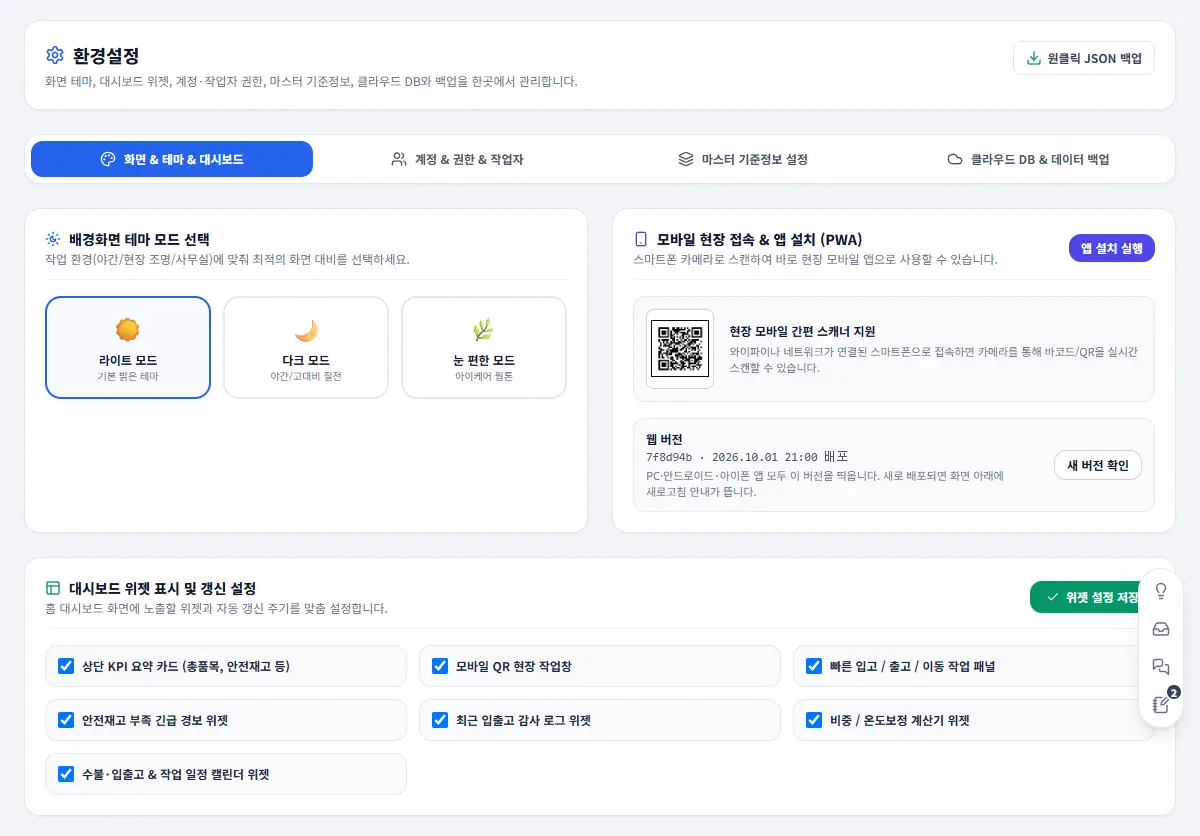
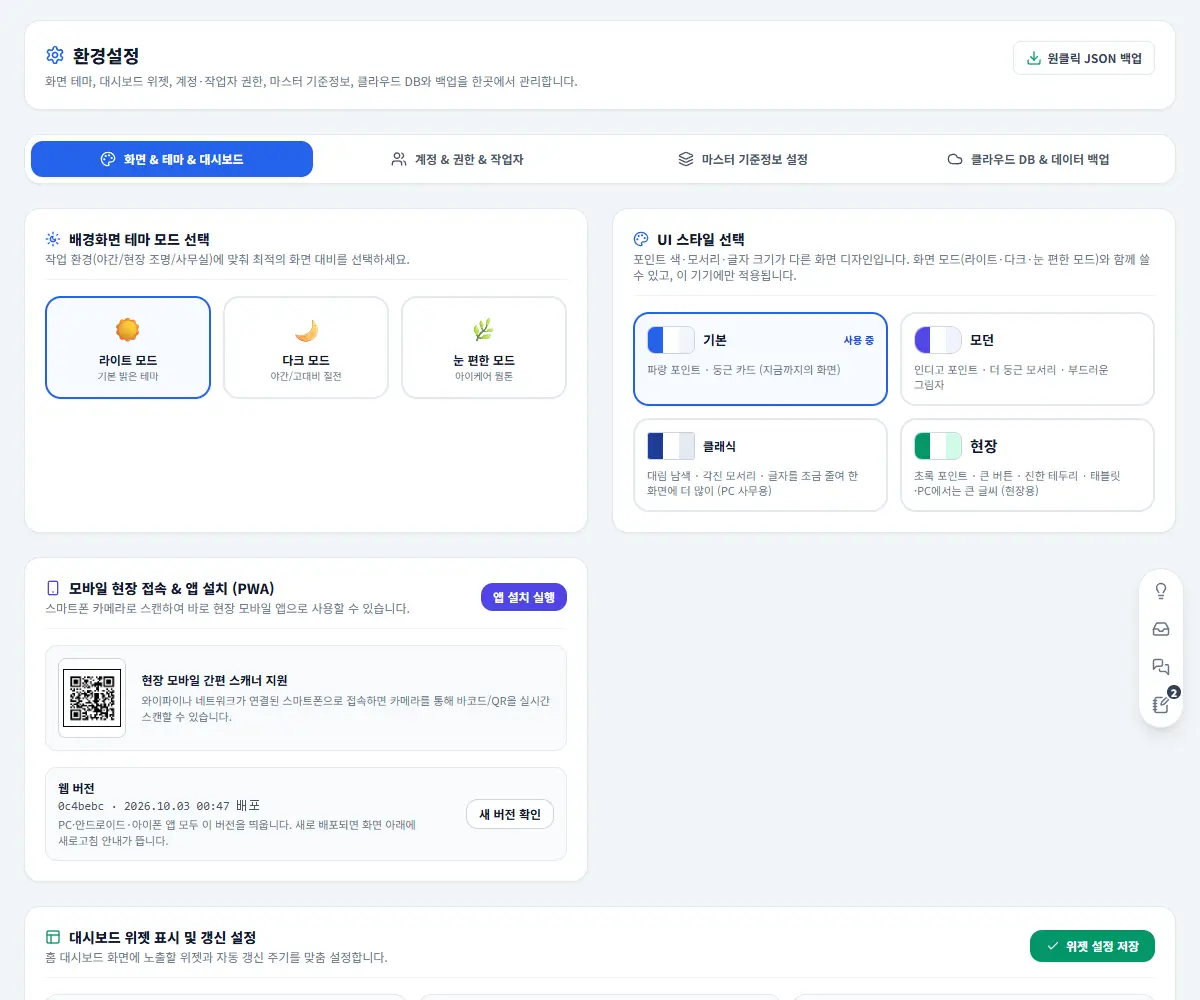
docs: 스캐너·전표 인식·적재 규격·모형·UI 스타일 매뉴얼과 작업 기록, 예시 데이터 뽑기 스크립트

diff --git a/src/data/manualContent.js b/src/data/manualContent.js
@@ -1271,7 +1271,8 @@ const USER_MANUAL = {
                     title: '한 품목씩 처리',
                     image: 'scan-item.webp', caption: '품목을 스캔하면 거점별 재고와 작업 창이 나옵니다',
                     steps: [
-                        '`카메라 스캐너 켜기`를 누르고 품목 라벨의 QR·바코드를 비춥니다. (PC는 `품목코드 또는 품목명 검색`에 코드·이름 일부를 입력하고 `조회`)',
+                        '`카메라 스캐너 켜기`를 누르고 품목 라벨의 QR·바코드를 **네모 안에** 비춥니다(처음 한 번 카메라 권한 허용). 읽히면 네모가 초록으로 바뀌고 소리·진동이 납니다. (PC는 `품목코드 또는 품목명 검색`에 코드·이름 일부를 입력하고 `조회`)',
+                        '카메라 화면 오른쪽 위 단추: **손전등**(어두운 창고) · **1× → 2× → 3× 확대**(작은 라벨을 떨어져서 읽을 때) · **카메라 바꾸기**(카메라가 여러 개인 기기 — 고른 카메라를 기억합니다) · **사진에서 읽기**(카메라가 켜지지 않는 브라우저에서 QR 사진을 골라 읽기). 손전등·확대는 그 기능이 있는 카메라에서만 보입니다. 같은 카메라 화면을 재고실사·통합 검색·LOT 추적·제품생산/입고 검색 등록·작업지시서 스캔에서도 씁니다.',
                         '오른쪽에 품목 정보와 **거점별 보관 현황**이 나옵니다.',
                         '작업을 고릅니다: `입고 (+)`, `출고 (-)`, `생산투입 (-)`, `거점이동 (->)`.',
                         '`대상/출발 거점`과 `수량`을 넣습니다. 거점이동은 `도착 위치`(창고까지)도 고릅니다.',
@@ -1279,6 +1280,7 @@ const USER_MANUAL = {
                     ],
                     cautions: [
                         '출고·생산투입·이동은 **그 위치의 재고보다 많이 뺄 수 없습니다.** 재고가 건물(창고)별로 나뉘어 있으면 위치 QR로 정확한 창고를 먼저 지정하세요.',
+                        'QR이 잘 안 읽히면: 라벨이 네모 안에 들어오게 하고 **너무 가까이 대지 마세요**(초점이 안 맞으면 조금 떼고 `2×` 확대). 어두우면 손전등, 라벨이 구겨지거나 기름이 묻었으면 닦거나 다시 뽑습니다. 카메라 권한을 막았으면 주소창의 자물쇠 → 카메라를 허용으로 바꿉니다.',
                         '확정하면 재고·수불부·이력에 바로 기록됩니다. 잘못 처리했으면 반대 작업(예: 출고를 다시 입고)으로 바로잡고 사유를 남기세요.'
                     ]
                 },
@@ -1588,7 +1590,7 @@ const USER_MANUAL = {
                         '`카메라로 찍기` 또는 `이미지 파일 선택`으로 전표 사진을 올립니다 (끌어다 놓기도 됨). 기울었으면 `90° 회전`.',
                         '`글자 읽기`를 누릅니다. 처음에는 인식 프로그램을 받느라 조금 걸립니다. 책상·바닥이 넓게 찍힌 사진은 **종이(전표·영수증) 부분만 자동으로 잘라** 읽습니다. 잘못 잘렸으면 `종이만 자르기`를 끄세요.',
                         '오른쪽에서 `전표 종류`, 일자·거래처·전표 번호·창고·작업자를 확인합니다. 종류별 재고 처리: **입고·구매·카드사용**(카드로 산 물품) = 재고 늘림, **출고·사용·폐기** = 재고 줄임, **이동** = `출발 창고` → `도착 창고`로 옮김, **기타** = `재고` 칸에서 늘림/줄임을 고릅니다. 수불부 구분 칸에는 고른 종류 이름(구매·카드사용·폐기·기타 등)이 그대로 적힙니다.',
-                        '읽은 줄마다 품목(검색해서 고르기)·수량·단위를 확인하고, 맞는 줄만 체크합니다. 빠진 줄은 `+ 줄 추가`.',
+                        '읽은 줄마다 품목(검색해서 고르기)·수량·단위를 확인하고, 맞는 줄만 체크합니다. 빠진 줄은 `+ 줄 추가`. 표로 된 전표는 여러 방식으로 읽어 **줄마다 가장 잘 읽힌 것**을 고르고(2~4번 읽음, 10~30초), 머리줄의 `수량` 칸 아래 숫자를 찾으면 읽은 글자 줄 끝에 `[수량칸 240]`처럼 적어 그 값을 수량으로 씁니다 — 틀렸으면 표의 수량을 고치거나, `읽은 글자`에서 그 숫자를 고치고 `다시 분석`합니다.',
                         '원료·원액처럼 단위가 L이나 KG인 품목은 단위 칸에서 **L / KG**를 고를 수 있습니다. 품목 단위와 다르면 `비중` 칸이 나오고(원료수불부 최근 비중, 없으면 1) 환산 결과(`= 202.5 L`)를 보여 주며, 등록은 품목 단위로 환산해 넣습니다. 전표에 `160 kg`처럼 적혀 있으면 KG로 먼저 맞춰 둡니다.',
                         '**카드전표**(전표 종류 `카드사용`): 보라색 `카드 사용 정보` 칸에 **결제 금액·카드·사용 용도**를 넣습니다(글자 읽기를 하면 영수증을 여러 크기로 읽어 **사용처(맨 위 업체명)·합계 금액·카드사와 카드 끝 4자리·거래일시·승인번호**를 찾아 채워 줌, 약 10초. 고른 값은 보라색 `영수증에서 고른 값` 칸에 따로 보이고, 그 아래 `읽은 글자`는 여러 번 읽은 것 중 하나라 깨져 보일 수 있습니다. 영수증(감열지)은 흑백·대비 보정이 흐린 글자를 지우기도 해서 종류가 카드사용이면 `흑백·대비 보정`이 자동으로 꺼지고 `종이만 자르기`로 읽습니다. 카드·용도는 이 기기에서 쓴 것을 목록으로 보여 주고, 끝 4자리가 같은 카드가 있으면 그 이름으로 채움). 재고 품목이 있으면 아래 표에서 체크해 등록하고, 식대·주유처럼 재고와 관계없는 영수증은 `재고 없이 카드 사용만 기록`을 누릅니다. 영수증 사진은 **월·일자별로 정리해** 보관되고 전표관리의 월별 카드사용내역에 모입니다.',
                         '`체크한 줄 입고 등록`(또는 출고 등록)을 누릅니다. 등록하면 **전표관리**에 등록번호(SC-날짜-순번)로 기록이 남고 전표 사진도 함께 보관됩니다.',
@@ -1738,6 +1740,18 @@ const USER_MANUAL = {
                     tips: ['같은 거점(김포공장) 안 이동이라 수불부·업무일지에는 기록되지 않고 입출고 이력에만 남습니다.', '구획 QR 라벨을 여러 장 뽑을 때는 `구획 QR 라벨`(현장 QR 라벨 화면)에서 위치를 고릅니다.']
                 },
                 {
+                    title: '적재 규격 · 파렛트 수 자동 계산 · 추천 자리',
+                    steps: [
+                        '오른쪽 목록의 품목마다 **적재 규격** 단추가 있습니다(예: `드럼 2×2 × 1단 = 4개 · 파렛트당 800 L`). 그 품목이 파렛트에 어떤 포장으로 몇 개 실리는지이고, 3D의 파렛트가 **그 모양과 개수대로** 그려집니다 — 드럼은 원통 4개, 페일은 4×4로 3단, 박스는 가로×세로로 여러 단, IBC는 통 하나. 마지막 파렛트는 남은 수량만큼만 쌓여 보입니다.',
+                        '규격을 정하지 않은 품목은 **품명·규격에서 읽습니다**: `200L`·드럼 → 드럼, `20L`·페일 → 페일, IBC·토트·`1000L` → IBC, `1L x 12`·`12개입` → 박스(입수 12), 포대 → 포대. 읽을 것이 없으면 분류 기본 모양(원료 드럼 · 원액 IBC · 그 밖 박스)으로 그리고 수량은 모르는 것으로 둡니다(점선 단추).',
+                        '단추를 누르면 **적재 규격 창**이 열립니다. `포장 종류`, 한 단의 `가로 × 세로` 개수, `단` 수, `포장 하나에 든 수량`(드럼 한 통 200 L, 박스 한 개 12 EA처럼 품목 단위로)을 고치면 위·옆에서 본 그림과 **파렛트당 수량**, 이 자리 재고가 몇 파렛트인지가 바로 나옵니다. `저장`하면 모든 기기의 배치도에 반영되고, `자동으로 되돌리기`는 저장한 규격을 지웁니다(현장 작업자 이상).',
+                        '**파렛트 수 자동 계산**: 라인에 넣은 품목의 파렛트 수를 적지 않으면 **재고 ÷ 파렛트당 수량**(올림)으로 계산해 칸을 채웁니다(목록에 `자동 계산` 표시). 실제와 다르면 파렛트 수 칸에 직접 적거나 적재 규격을 고칩니다 — 직접 적은 값이 우선입니다.',
+                        '**추천 자리**: `구획 지정`·`옮기기`로 옮기기 창을 열면 도착 칸 아래에 `추천 자리`가 나옵니다 — 같은 품목이 이미 있고 빈 칸이 남은 라인이 먼저, 그다음 비어 있는 라인(출발 창고와 같은 동, 번호순). 누르면 도착이 골라지고, 옮기는 파렛트 수도 적재 규격으로 계산해 채워 줍니다.'
+                    ],
+                    tips: ['적재 규격은 그림과 파렛트 수 계산에만 쓰며 재고·수불부는 바뀌지 않습니다.', '기본 적재(드럼 4 · 페일 48 · 박스 48 · 포대 36)는 1,100 × 1,100mm 파렛트의 흔한 값입니다. 회사에서 쌓는 방식과 다르면 품목마다 고쳐 두세요.'],
+                    cautions: ['칸보다 파렛트가 많으면 마지막 칸이 빨갛게 보이고 `초과`로 표시됩니다 — 재고를 다른 라인으로 나누거나 파렛트 수·적재 규격을 확인하세요.']
+                },
+                {
                     title: '배치 편집 (매니저)',
                     steps: [
                         '`배치 편집` → 창고 칩을 고르고(3D에서 동 바닥을 눌러도 됩니다) 창고 가로·세로·벽 높이와 위치(m)를 넣습니다. **보고 있는 공장의 배치만** 고치며, 편집 중에는 공장을 바꿀 수 없습니다.',
@@ -1752,7 +1766,7 @@ const USER_MANUAL = {
                     title: '평면도 편집 (레이어 · 끌어서 고치기)',
                     steps: [
                         '`평면도 편집`(매니저 미만은 `평면도 보기`)을 누르면 보고 있는 공장을 **위에서 본 평면도**가 화면 가득 열립니다. 도면 위쪽이 위이고 단위는 m, 왼쪽 위에 축척 막대가, 오른쪽 위에 북쪽을 가리키는 `N` 화살표가 있습니다(본사1은 도면 방향 그대로 놓아 화살표가 왼쪽을 가리킵니다). 휠(스마트폰은 두 손가락 벌리기)로 확대하고, 화면은 `화면 옮기기`(손 모양) 도구로 끌거나 **Space를 누른 채 끌어** 옮깁니다(스마트폰은 두 손가락으로 끌기). 보기 전용에서는 그냥 끌면 화면이 움직입니다.',
-                        '오른쪽 **레이어**: `이름표` · `모형 (장비·짐·차량·시설)` · `구획 · 3층` · `구획 · 2층` · `구획 · 1층`(쓰는 층마다 하나) · `부속·출입문` · `건물 (창고)` · `참고 건물` · `주변 표시`(바닥 표시·화살표) · `배경 도면`. **눈**은 보이기/숨기기, **자물쇠**는 잠금입니다 — 잠긴 레이어는 평면도에서 눌러도 골라지지 않습니다. 처음에는 건물·참고 건물·주변 표시·배경이 잠겨 있어(실수로 건물을 옮기지 않게) 구획과 부속만 바로 고칠 수 있고, 건물을 고치려면 그 레이어의 자물쇠를 풉니다. 레이어 이름을 누르면 그 안의 물체 목록이 펼쳐지고, 층 레이어를 누르면 그 층이 **작업 층**이 됩니다.',
+                        '오른쪽 **레이어**: `이름표` · `모형 (방·가구·설비·차량)` · `구획 · 3층` · `구획 · 2층` · `구획 · 1층`(쓰는 층마다 하나) · `부속·출입문` · `건물 (창고)` · `참고 건물` · `주변 표시`(바닥 표시·화살표) · `배경 도면`. **눈**은 보이기/숨기기, **자물쇠**는 잠금입니다 — 잠긴 레이어는 평면도에서 눌러도 골라지지 않습니다. 처음에는 건물·참고 건물·주변 표시·배경이 잠겨 있어(실수로 건물을 옮기지 않게) 구획과 부속만 바로 고칠 수 있고, 건물을 고치려면 그 레이어의 자물쇠를 풉니다. 레이어 이름을 누르면 그 안의 물체 목록이 펼쳐지고, 층 레이어를 누르면 그 층이 **작업 층**이 됩니다.',
                         '**고치기**: 눌러서 고르고 **끌어서 옮깁니다**. 네모 손잡이 = 크기(가늘고 긴 랙·라인은 양 끝 손잡이로 길이), 위쪽 동그라미 = 회전(Shift를 누르면 15°씩). 다각형 건물은 꼭짓점을 끌어 모양을 바꾸고, 변 가운데 동그라미를 눌러 꼭짓점을 넣고, 꼭짓점을 고른 뒤 `Delete`로 뺍니다. 오른쪽 **속성**에서 위치·크기·회전·층·바닥 높이·칸 수·줄 수·단 수를 숫자로 고칠 수도 있습니다. 건물을 옮기거나 돌리면 그 안의 구획·부속·출입문·모형이 같이 움직입니다.',
                         '**여러 개 고르기 · 함께 옮기기**: `고르기` 도구로 **빈 곳을 끌어 네모를 그리면** 그 안에 다 들어온 것이 한꺼번에 골라집니다(잠기지 않은 레이어의 것 · 구획은 작업 층 것). `Shift`를 누른 채 누르면 하나씩 넣고 빼고, `Ctrl+A`는 모두 고릅니다. 고른 것 가운데 하나를 끌면 **모두 함께** 움직이고(서로의 자리는 그대로), 방향키 · `Ctrl+D`(같은 배치 그대로 오른쪽 옆에 복제) · `Delete`(창고와 재고가 남은 구획은 남김)도 함께 듣습니다. 고른 것 하나를 끌지 않고 누르면 그것만 고르고, 빈 곳을 누르거나 `Esc`를 누르면 풀립니다.',
                         '**새로 놓기**(위 도구줄): `+ 랙`(6칸 × 3단 — 천장이 낮은 층에서는 들어가는 단 수만큼) · `+ 바닥 라인`(파렛트 6개 × 2단) · `+ 구역`(칸 없는 구역)은 놓을 자리를 눌러 놓습니다 — 건물 안이면 그 창고의 구획, **건물 밖(마당)이면 그 공장 옥외 창고(본사1D · 김포1D)의 구획**이 됩니다(옥외 창고가 없는 김포2공장은 건물 안에만). `+ 바닥 표시` · `+ 화살표` · `+ 참고 건물` · `+ 부속`도 누른 자리에 생깁니다.',
@@ -1762,7 +1776,9 @@ const USER_MANUAL = {
                         '**층마다 창고가 다른 건물 (본사1)**: 층마다 창고코드가 다르면 **건물도 층마다 따로** 같은 자리에 겹쳐 있습니다 — 작업 층을 바꾸면 그 층에 걸친 건물만 또렷하게 보이고 눌리며(다른 층의 건물과 그 부속·출입문·모형은 흐리게), 새 구획은 그 층 창고의 구획이 됩니다(2층에서 놓으면 `본사1B-01`, 4층이면 `본사1C-01`). 창고코드가 없는 층(본사1의 3층 — 참고 층)에는 구획을 놓을 수 없습니다. 건물(창고 · 참고 건물) 속성의 `층`·`바닥 높이`로 그 건물이 놓인 층을 정하고, `층 높이`를 바꾸면 쌓인 층들이 함께 따라 움직입니다. 레이어 목록에서 다른 층의 건물·구획을 고르면 작업 층도 그 층으로 바뀝니다.',
                         '**출입문은 원하는 곳을 눌러서**: `+ 출입문`을 누르고 문을 낼 자리를 누릅니다. 벽 가까이(2.5m 안)를 누르면 그 벽에 붙고 — 비스듬한 벽·다각형 건물·참고 건물의 벽도 됩니다 — 벽에서 먼 곳을 누르면 그 자리에 **따로 선 문**(대문·건물 안 칸막이 문)이 생깁니다. 문을 끌면 벽을 따라 움직이고 모퉁이를 지나면 옆 벽으로 넘어가며, 따로 선 문은 벽 가까이(1.2m 안)로 끌면 그 벽에 붙습니다(`Alt`를 누른 채 끌면 붙이지 않음). 양 끝 네모로 길이를, 동그라미로 방향을 바꾸고, 속성에서 모양(슬라이딩·여닫이 두 짝·열린 자리·고정문)을 고릅니다.',
                         '**파렛트 한 칸씩 구획으로**: `+ 파렛트 칸`을 누르면 옆에 `가로 × 세로 칸`과 `단` 칸이 나옵니다. 칸 수를 정하고 놓을 자리(건물 안 · 마당)를 누르면 그 자리를 한가운데로 **칸 하나가 구획 하나**(1.2 × 1.2m)인 파렛트 칸이 가로 × 세로로 놓입니다 — 예: 가로 4 × 세로 2 = 구획 8개(`김포1D-01` ~ `김포1D-08`, 왼쪽 위부터 오른쪽으로 번호). 저장하면 칸마다 재고 위치가 되어 파렛트 하나 단위로 재고를 넣고 찾을 수 있습니다. 이미 놓은 랙·라인·구역은 속성의 `칸마다 구획으로 나누기`로 파렛트 자리 하나하나(칸 × 줄)를 따로 구획으로 바꿉니다(첫 칸이 지금 구획코드를 잇고 나머지는 새 코드, 재고가 없는 구획만). 칸을 고르고 `Ctrl+D`를 누르면 오른쪽에 틈 없이 한 칸 더 생깁니다.',
-                        '**모형 놓기 (계단 · 탱크 포함)**: 도구줄 `모형`에서 `지게차` · `드럼 파렛트 (드럼 4개)` · `IBC 탱크` · `1톤 화물차` · `3.5톤 화물차` · `계단` · `저장 탱크`를 고르고(고르면 바로 놓기 도구가 켜집니다) 놓을 자리를 누릅니다. 건물 안에 놓으면 그 건물과 같이 움직이고, 도로·마당처럼 **건물 밖에도** 놓을 수 있습니다. 고른 모형 앞의 동그라미를 끌어 방향을 돌리고(Shift = 15°씩), 속성에서 종류·이름·방향을 고칩니다. **계단**은 `오르는 높이`(처음 값 = 층 높이) · `폭` · `시작 높이`(2층에서 3층으로 오르는 계단이면 2층 바닥 높이 — 작업 층에 맞춰 들어감)를 정하고 화살표가 오르는 쪽입니다. **저장 탱크**는 `지름` · `높이`를 정합니다. `Ctrl+D`는 바로 옆에 하나 더 놓습니다.',
+                        '**방 · 가구 · 설비 · 차량 놓기**: 도구줄 `방·가구·설비`에서 놓을 것을 고르고(고르면 바로 놓기 도구가 켜집니다) 자리를 누릅니다. 목록은 네 묶음입니다 — **방(칸막이)**: 사무실 · 회의실 · 화장실 · 창고(자재실) · 실험실(품질관리실) · 탈의실 · 휴게실 · 식당 · 기계실 · 전기실 / **가구·가전**: 책상 · 의자 · 회의 탁자 · 소파 · 캐비닛 · 사물함 · 선반 · 냉장고 · 정수기 · 에어컨 · 복합기 · 싱크대 · 변기 · 세면대 / **설비·시설**: 계단 · 계단실 · 엘리베이터 · 철골 2층 구조물 · 저장 탱크 · 혼합탱크(교반기) · 보일러 · 공기압축기 · 컨베이어 · 충진기 · 바닥 저울 · 분전반 · 소화기 / **물류·차량**: 지게차 · 핸드 파렛트 트럭 · 드럼 파렛트 · IBC 탱크 · 1톤·3.5톤 화물차. 건물 안에 놓으면 그 건물과 같이 움직이고, 도로·마당처럼 **건물 밖에도** 놓을 수 있습니다. 앞의 동그라미를 끌어 방향을 돌리고(Shift = 15°씩), 속성에서 종류·이름·방향을 고칩니다. `Ctrl+D`는 바로 옆에 하나 더 놓습니다.',
+                        '**방 만들기**: 방을 놓으면 색칠된 바닥과 칸막이 벽, 이름이 생깁니다. **오른쪽 아래 모서리의 네모 손잡이**를 끌어 크기를 맞추거나(가운데는 제자리, 양쪽으로 같이 늘어남) 속성의 `가로`·`세로`·`높이`에 숫자를 넣습니다 — 넓이(㎡·평)가 같이 나옵니다. **문은 방향이 가리키는 쪽 벽 가운데**에 나므로 방향 손잡이로 문 쪽을 돌립니다. 이름은 속성에서 바꿉니다(예: 사무실 → 생산관리 사무실). 방 안에 책상·의자·캐비닛 같은 가구를 따로 놓으면 3D와 평면도에 방 안에 놓인 모습으로 보입니다.',
+                        '**크기를 정하는 설비**: **계단**은 `오르는 높이`(처음 값 = 층 높이) · `폭` · `시작 높이`(2층에서 3층으로 오르는 계단이면 2층 바닥 높이), **계단실**·**엘리베이터**는 가로·세로·높이, **철골 2층 구조물**은 가로·세로와 바닥 높이(기둥 위의 철판 바닥 + 난간 — 그 위에 재고를 두려면 같은 자리에 작업 층을 2층으로 바꿔 구역·랙을 놓습니다), **저장 탱크**·**혼합탱크**는 지름·높이, **컨베이어**는 폭·길이·벨트 높이를 정합니다. 이 모형들은 **재고와 무관한 참고 그림**입니다.',
                         '`맞춤`(0.05~1m)은 옮기거나 크기를 바꿀 때 맞추는 간격입니다. 방향키 = 한 칸씩(Shift = 10칸), `Ctrl+Z` 되돌리기 · `Ctrl+Y` 다시 하기 · `Ctrl+D` 복제 · `Ctrl+A` 모두 고르기 · `Delete` 지우기 · `Esc` 고르기 풀기 · `Ctrl+S` 저장.',
                         '**배경 도면**: `그림 불러오기`로 도면 그림(PNG·JPG)을 밑그림으로 깔고 그 위에 맞춰 그립니다. `축척 맞추기`를 누르고 실제 거리를 아는 두 점(예: 도로 폭의 양 끝)을 차례로 누른 뒤 그 거리를 넣으면 그림 크기가 맞춰집니다. 배경 레이어의 자물쇠를 풀면 그림을 끌어 옮기고, 속성에서 진하기를 바꿉니다.',
                         '`저장`을 눌러야 3D 배치도와 재고 위치에 반영됩니다. 닫기·다른 화면 이동·뒤로가기 때 저장하지 않은 변경이 있으면 한 번 묻습니다.'
@@ -2290,7 +2306,12 @@ const USER_MANUAL = {
                 {
                     title: '화면 & 테마 & 대시보드',
                     image: 'settings.webp', caption: '환경설정 첫 화면',
-                    steps: ['`라이트 모드`·`다크 모드`·`눈 편한 모드`를 고릅니다.', '홈에 보일 위젯을 체크하고 `위젯 설정 저장`.']
+                    steps: [
+                        '`라이트 모드`·`다크 모드`·`눈 편한 모드`를 고릅니다.',
+                        '**UI 스타일 선택**: 화면 모드와 따로, 화면 디자인을 고릅니다 — `기본`(파랑 · 둥근 카드) · `모던`(인디고 · 더 둥근 모서리 · 부드러운 그림자) · `클래식`(대림 남색 · 각진 모서리 · 글자를 조금 줄여 한 화면에 더 많이, PC 사무용) · `현장`(초록 · 큰 버튼 · 진한 테두리, 태블릿·PC에서는 글자도 크게). 누르면 바로 바뀌고 **이 기기에만** 적용됩니다(다른 사람·다른 기기는 그대로). 다크 모드·눈 편한 모드와 함께 쓸 수 있습니다.',
+                        '홈에 보일 위젯을 체크하고 `위젯 설정 저장`.'
+                    ],
+                    tips: ['인쇄물·라벨과 포장작업표준서·환경관리(대기) 화면은 UI 스타일과 관계없이 같은 모양으로 나옵니다.']
                 },
                 {
                     title: '계정 & 권한 & 작업자',

diff --git a/CLAUDE.md b/CLAUDE.md
@@ -93,6 +93,8 @@ npm run preview
   - 점검: 헤드리스 Chrome에 `scripts/capture_manual.mjs`의 예시 데이터(가짜)를 넣은 로컬 모드로 67개 탭을 PC(1920×1080)·스마트폰(390×844)으로 찍어 JS 오류·가로 넘침을 봅니다(2026-10-01 모두 0건, 다크·눈 편한 모드 포함).
 - Tailwind는 빌드 파이프라인이 아니라 `index.html`의 CDN 스크립트로 로드됩니다. 폼텍 라벨 인쇄용 CSS도 `index.html`에 있습니다.
 - 화면 모드(`daelim_theme`: light·dark·warm, `html/body[data-theme]`): 다크 모드는 `index.html`의 기본 규칙 + `services/darkTheme.js`(`injectDarkThemeCss`, main.js에서 한 번)가 Tailwind 밝은 색 클래스(bg-white·bg-*-50/100/200·border-*-100~300·text-*-600~900·from/via/to 그라데이션·hover·기본 테두리색)를 색표로 한꺼번에 덮습니다(클래스 토큰 선택자, `head` 맨 앞에 넣어 색 있는 테두리 클래스는 그대로). 새 화면은 Tailwind 색 클래스를 쓰면 다크 모드가 자동으로 맞고, 인라인 style 색은 덮이지 않으니 피하세요. 흰 종이로 보여야 하는 앱 안 미리보기는 `class="theme-paper"`(예: 전표 발행기 미리보기), Chart.js 그래프는 그리기 전에 `applyChartTheme(Chart)`를 부르세요. 포장작업표준서(iframe)는 A4 편집기라 밝은 화면 그대로입니다.
+- **UI 스타일**(2026-10-03, `services/uiStyle.js`, 환경설정 → 화면 & 테마의 `UI 스타일 선택` 카드, 기기별 `daelim_ui_style`): 화면 모드(라이트·다크·눈 편한 모드)와 **따로** 고르는 겉모습 — `default` 기본(파랑) · `modern` 모던(인디고 · 더 둥근 모서리 · 부드러운 그림자) · `classic` 클래식(대림 남색 #1E3C96 · 모서리 4px · 그림자 없음 · 글자 15px로 한 화면에 더 많이) · `field` 현장(초록 · 버튼·입력 칸 40px · 진한 테두리 · 폭 640px 이상에서는 글자 17.5px). `applyUiStyle(id)`가 `<html data-ui>`를 붙이고 CSS를 한 번 만들어 `head` 끝에 넣는다(main.js가 첫 화면 전에 부름): 포인트 색은 `blue-50…900` 클래스(bg·text·border·ring·from/to·hover·focus)를 그 스타일의 명도표(`PALETTES`)로 덮고(옅은 색은 밝은 화면에서만 — 다크 모드는 반투명 포인트 색·밝은 글자로 따로), 모양은 `SHAPE_CSS`(모서리·그림자·`html` 글자 크기 — Tailwind가 rem이라 전체가 같이 커지고 줄어든다). 그래서 **새 화면은 포인트 색을 blue-\*로, 모서리를 Tailwind 클래스로** 쓰면 저절로 따라가고 인라인 style 색·모서리는 바뀌지 않는다. 인쇄(`@media print`)는 글자 크기를 16px로 되돌린다(이 문서를 그대로 인쇄하는 라벨의 치수가 달라지지 않게). 스마트폰에서 글자를 키우면 375px에서 9개 화면이 가로로 넘쳐 현장 스타일의 글자 키우기는 640px 이상으로 제한했다. 스타일을 바꾸면 `resize` 이벤트를 보내 머리글·메뉴 칸을 다시 잰다. 점검(로컬 데모 모드): 68개 탭 × 클래식·현장(1500px) · 현장(375px)에서 가로 넘침·화면 밖 요소·JS 오류 — 기본 스타일과 같은 수준(375px의 생산 스케줄·캘린더 9px 넘침은 기본 스타일에도 있는 기존 문제). 포장작업표준서·환경관리(대기) iframe과 인쇄 창은 스타일을 따르지 않는다.
+- **메뉴 아이콘 점검**(`node scripts/check_icons.mjs`): 소스의 `data-lucide="…"`·`icon: '…'` 이름이 lucide에 있는지, `TAB_META`·`NAV_TREE`(묶음·소제목 `{ heading, icon }`)에 아이콘이 빠졌거나 없는 이름·**겹치는 아이콘**이 없는지 본다(없는 이름을 쓰면 오류 없이 아무것도 안 그려진다 — 2026-10-03 환경설정의 `tools`가 그랬음). 메뉴마다 다른 아이콘을 쓴다(업무일지 본사·김포, 제품생산/입고 본사·김포, IBC·원료 수불부 등 11개가 겹쳐 있던 것을 나눔 — 사이드바 `ALL_MENU_ITEMS`의 아이콘도 같이 맞출 것). 메뉴·버튼을 더하면 이 스크립트를 돌린다.
 - 로고(`public/`): `logo.svg`(기본색 #1E3C96, 바탕 투명, 홈페이지 로고를 Anton 글꼴 윤곽으로 다시 그린 벡터) · `logo-white.svg`(흰색, 어두운 바탕용) · `icon.svg`(기본색 바탕 + 흰 로고). 화면에서는 밝은 화면 `.logo-on-light` / 다크 모드 `.logo-on-dark`(index.html)로 바꿔 보여 줍니다. `logo.png`·`logo-white.png`(1600px)와 `icon-192/512`·`icon-maskable-512`·`apple-touch-icon`·`favicon-48` PNG는 SVG를 헤드리스 Chrome으로 찍어 만든 것이며, 인쇄·캔버스(`docMarks.js`)는 PNG를 씁니다.
 - **새 탭 추가 시** 함께 수정할 곳:
   - `main.js`의 `TAB_MODULES`, `renderTabContent`(탭 → render 함수)와 탭 라벨
@@ -246,6 +248,13 @@ npm run preview
     - **본사1 기본 배치** = 건축물현황도 배치도(시흥시 도창동 418) 그림에서 잰 값. 적힌 1:400이 그림과 맞지 않아 치수선(6,625 · 4,200 · 13,800 · 28,200 · 5,000)에 맞춤(도면 그림 1px ≈ 0.0567m), 원점 = 본체 서쪽 벽(북쪽 구간)·북쪽 벽, 방향은 도면 그대로(실제 북쪽은 도면 왼쪽 — `ZONE_PLANTS[].north` 261°로 평면도의 N 화살표만 돌린다, 배경 도면 맞춤 `drawing` x -59.67 · z -37.44 · 폭 148.48m). 층별 외곽(`HQ_SHAPES` — 범례의 층별 해치로 읽음): 본체 13.8 × 28.2m + 북서쪽 계단 모양(2.1m 단, 1~3층) + 서쪽 띠(1~3층) + 서쪽 1층 부속(사다리꼴, 1층만) + 북쪽 돌출 2.1m(1·2층) + 동쪽 현관부 2.2 × 5.8m · 남서쪽 돌출 6.15 × 3m(전 층), 4층은 서쪽이 안으로 들어간 모양. 마당(본사1D) = 부지 경계(북·서·남)와 주차 칸 동쪽 끝·경사로 서쪽 끝까지의 포장된 곳. 주변 표시: 3층 참고 층 · 동쪽 현관 부속 · 주차 P-1~P-8 / P-9~P-11 · 남동쪽 경사로 출입구 표시 + 화살표(조경·도로·부지 경계선·오수처리시설·지층은 넣지 않음). 구획은 넣지 않았고 **클라우드에 저장하지 않았다**(기본 배치로 보임 — 구획이 없어 옮기기는 되고, 평면도에서 저장하면 창고 4줄 + 놓은 구획이 저장된다). 층 높이 3.5m는 가정값. 도면 그림은 공식 문서라 `C:\code\도면`(저장소 밖)에 둔다.
     - 점검(2026-10-02, 로컬 데모 모드 + 가상 포인터 이벤트): 3D 전체·층 칩 넷(위층 숨김)·위에서 보기·옥외 구역/2층 랙 확대·호버·끌어 놓기 대상(4층 라인·2층 구역·마당 칸·옥외 구역), 평면도 층 1~4 전환(다른 층 흐림)·옥외 구역/파렛트 칸/랙/라인 놓기·이름 단추·저장(캐시)·층 높이·건물 층 바꾸기·되돌리기, 김포1공장 건물 밖 구역(도면 방향)·옥외저장소 안(그 방향)·2층 랙 2단, 김포2공장 건물 밖 거절. 김포2공장 3D는 고치기 전과 위에서 보기·라인 확대 화면이 픽셀 단위로 같고(다른 픽셀 0), 김포1공장은 옥외저장소 바닥을 낮춘 만큼만 다르다.
   - **방산캠프(본사2) (2026-10-02)**: `ZONE_PLANTS`에 `방산캠프`(화면 이름 '본사2 (방산캠프)', 거점 본사: 본사2A 방산공장 제조소 · 본사2B 방산공장 창고동)를 넣었다. 기본 배치 = 건축물현황도 배치도(시흥시 방산동 214-17, 1:250)에 적힌 치수 그대로: 건물 한 채(일층 벽체중심선 24.6 × 8m)를 제조소·창고동으로 나눠 쓴다고 해서 **반으로 나눠 서쪽 12.3m = 본사2A, 동쪽 12.3m = 본사2B**(기준점 = 건물 북서쪽 모서리, 벽 높이 6m · 나눈 자리 · 어느 쪽이 제조소인지는 가정), 주변 표시는 북쪽 6m 도로와 주차 2칸 · 출입구(북쪽 경계선의 동쪽 끝 4 × 1.3m 초록 표시 + 도로에서 들어오는 화살표 — 표시해 준 자리), 기본 시점은 남쪽에서(북쪽에서 보면 바닥 글자가 거꾸로 보인다), 실제 북쪽은 도면의 왼쪽(`north: 252`), 배경 도면 맞춤 `drawing` x -28.55 · z -27.5 · 폭 75.2m(쪽 전체 2000px에서 1px ≈ 0.0376m, 건물 북서쪽 모서리 = (759, 731)px). 건물 밖 마당(공장 외곽 경계선 안, `BANGSAN_YARD`) = **본사2C 옥외저장소**(`outdoor` — 평면도에서 건물 밖에 놓는 구획이 이 창고의 구획이 된다, 2026-10-02 추가). **공장 외곽 경계선**(주변 표시의 `boundaries: [{ name, points }]`, `cleanExtras`가 점 셋 이상인 닫힌 선만 남김): 3D는 바닥에 붙은 빨간 띠(선분마다 얇은 상자, 화면 맞춤 범위에 포함), 평면도 편집기는 site 레이어의 빨간 다각형(고르거나 고칠 수 없는 참고 표시 — 고치려면 코드의 기본값이나 저장된 주변 표시를 바꾼다). 방산캠프에는 2026-10-02 표시해 준 빨간 테두리(북서쪽 모서리가 비스듬히 잘린 오각형: 북 = 도로 경계, 서 = 부지 경계, 동 = 건물에서 6m쯤, 남 = 건물에서 15m쯤 — 표시 그림에서 잰 값, 1px ≈ 0.0535m)를 넣었다. 클라우드에 저장하지 않았다(기본 배치로 보임). 도면 그림은 `C:\code\도면`(저장소 밖).
+  - **적재 규격 · 짐 모양 · 추천 자리 (2026-10-03)**: 품목이 파렛트에 어떤 포장으로 몇 개 실리는지 = `services/packSpecs.js`(DB `wms_item_pack_specs` `supabase/auth/82_item_pack_specs.sql` — code PK · data `{ type, cols, rows, layers, packQty }`, 조회 VIEWER·경영자 · 쓰기 OPERATOR, 로컬 `daelim_pack_specs`; 운영 DB에 적용함 — RLS·정책 4개, 줄 0개). `PACK_TYPES`: DRUM 드럼(2×2×1단 · 200) · PAIL 페일(4×4×3단 · 20) · IBC(1 · 1,000) · BOX 박스(3×4×4단 · 입수) · BAG 포대(2×3×6단 · 25) · BULK · ROLL — 국내 표준 파렛트(1,100 × 1,100mm)의 흔한 값이고 품목마다 고친다. 파렛트당 수량 = cols × rows × layers × packQty(packQty = 포장 하나에 든 수량, 품목 단위 기준 — 개수 단위 품목은 드럼 한 통 = 1). 사람이 정하지 않은 품목은 `guessPackSpec`이 품명·규격·단위로 짐작한다(source `NAME`: IBC·토트·1,000L / 드럼·160~220L / 포대 / 페일·15~25L / 입수 `x 12`·`12개입`(치수 `405*285*295`는 뺌) → 그것도 없으면 `DEFAULT` 분류 기본값(원료 드럼 · 원액 IBC · 그 밖 박스, packQty 0 = 수량 모름)). `packSpecOf(code, 재고 줄)` = 저장한 것 → 짐작.
+    - **파렛트 수**: `warehouseZones.itemPallets(z, code, item?)` = 적어 둔 기록(`wms_zone_loads`) → 없으면 `palletsForQty`(재고 ÷ 파렛트당 수량, 올림) → 파렛트당 수량을 모르면 예전처럼 1. 그래서 구획에 재고만 넣어도 파렛트 수·칸이 차고, 칸이 모자라면 초과(빨강)로 보인다(`hasPalletRecord` — 목록에 `자동 계산` 표시). DB의 합치기 함수(`wms_merge_zone_loads`)는 기록이 없으면 여전히 1파렛트로 본다. 품목을 합치면 `retargetItemAliases`(db.js)가 `retargetPackSpec`으로 규격을 기준 품목으로 옮긴다(동적 import — packSpecs.js가 db.js를 import).
+    - **3D 짐 모양**(`warehouse3d/cargoModels.js` `createCargoBuilder(THREE, mergeGeometries, track)`): 파렛트의 짐을 규격대로 그린다 — 포장(원통·상자)을 cols × rows × layers로 놓아 **하나의 모양으로 합친다**(`BufferGeometryUtils.mergeGeometries`, 같은 규격·개수·크기는 한 번만) → 파렛트 하나 = 받침 + 짐 두 덩어리 그대로. 그 품목의 마지막 파렛트는 남은 수량만큼만(`packsOnPallet` — 아래 단부터). 색은 분류 색 그대로(범례), IBC는 위에 주입구 뚜껑. 칸이 없는 구획의 덩어리·끄는 중의 파렛트는 예전처럼 상자.
+    - **적재 규격 창**(`warehouse3d/packSpecDialog.js`, 오른쪽 목록 품목 줄의 규격 단추 `[data-pack]` — WRITE_STOCK이면 고침): 포장 종류(바꾸면 `defaultPackSpec`) · 가로 × 세로 · 단 · 포장 하나에 든 수량, 위·옆에서 본 그림, 파렛트당 수량과 이 자리 재고의 파렛트 수, `자동으로 되돌리기`.
+    - **옮기기 창**(`moveDialog.js`): 옮길 곳을 정하지 않고 열면(구획 지정·옮기기 단추) `추천 자리`(`suggestZones`: 같은 거점의 칸 있는 라인 가운데 같은 품목이 있고 빈 칸이 남은 라인 → 비어 있는 라인, 출발 창고와 같은 동 먼저 · 번호순, 5곳)를 누르면 도착이 골라진다. 파렛트 수는 출발지가 라인이 아니면 규격으로 계산해 채우고, 일부량의 처음 값은 한 파렛트 분량.
+    - 점검(로컬 데모 모드, 가짜 품목): 드럼·페일·박스·IBC·포대 품목을 구획에 넣어 파렛트 수 자동 계산(예: 2,400 L ÷ 800 = 3) · 3D 짐 모양(가득·부분 적재) · 구획 지정 → 추천 자리 → 2파렛트 → 이동전표 · 규격 고치기(드럼 → 페일 4×4×2단) → 목록·캐시 반영.
+  - **방 · 가구·가전 · 설비 모형 (2026-10-03)**: `PROP_MODELS`에 `group`(`PROP_GROUPS`: LOGI 물류·차량 / ROOM 방 / FURNITURE 가구·가전 / FACILITY 설비·시설)을 두고 43종으로 늘렸다 — 방(사무실·회의실·화장실·창고(자재실)·실험실·탈의실·휴게실·식당·기계실·전기실: `params { wide, deep, h }` · `color` · `label`), 가구·가전(책상·의자·회의 탁자·소파·캐비닛·사물함·선반·냉장고·정수기·에어컨·복합기·싱크대·변기·세면대 — 크기 고정), 설비(계단실·엘리베이터·철골 2층 구조물 `{ wide, deep, h }` · 혼합탱크 `{ dia, h }` · 컨베이어 `{ wide, deep = 길이, h }` · 보일러·공기압축기·충진기·바닥 저울·분전반·소화기), 핸드 파렛트 트럭. `propSize`: `params.dia` → 원, `params.deep` → 가로 × 세로, 그 밖은 고정 크기. 3D = `warehouse3d/propModelsExtra.js`(`createExtraProps` — propModels.js의 도구를 받아 만든다: 방 = 반투명 칸막이 벽 + 방 색 바닥·벽 위 테두리 + 앞 벽 가운데 문 자리), 평면 = `warehouse3d/propPlanShapes.js`(`planShapeOf`), `label` 모형은 3D(이름표 — 라인 번호표처럼 멀면 숨음)와 평면도(이름 · 방은 크기)에 이름을 적는다. 평면도 편집기: 모형 고르기 목록이 묶음별(`propOptionsHtml`), 속성의 크기 칸은 `params`에서 저절로(`PARAM_LABELS`), 가로 × 세로 모형은 뒤쪽 오른 모서리의 **크기 손잡이**(`prop:size` → `prop-size`: 가운데는 제자리, 양쪽으로 같이 늘어남)와 치수 표시, 방·구조물은 먼저 그려 그 안의 가구가 위에 놓이고 눌린다. 방의 문 방향 = 모형의 앞(rot). 철골 2층 구조물 위에 재고를 두려면 같은 자리에 2층 구획을 놓는다(모형은 재고와 무관). **모형 종류를 더하면** `PROP_MODELS`(+ 값 범위 `PROP_PARAM_RANGE`) · `propModelsExtra.js` · `propPlanShapes.js` 세 곳에 넣는다. 점검: 43종을 3D 장면·평면도에 놓아 모양 확인, 평면도에서 실험실 놓기 → 속성(가로·세로·높이·넓이) → 크기 손잡이(7×4.5 → 11×7.2m, 가운데 그대로).
 - **의견·개선 요청**(`feedback`, 지원 묶음, `components/FeedbackBoard.js`, 보내기 창 `components/FeedbackDialog.js`, 서비스 `services/feedback.js`, DB `wms_feedback` `supabase/auth/62_feedback.sql`, 로컬 `daelim_feedback`): 떠 있는 버튼 묶음 맨 위 주황 `#ft-btn-feedback`(FloatingTools) → `openFeedbackDialog`가 먼저 `captureScreen`(html2canvas 동적 import, 보이는 화면만, `#ft-dock`·`#fb-modal` 제외, 긴 변 1600px JPEG) → 종류 BUG·IMPROVE·NEW·QUESTION·제목·내용·첨부(선택·끌어놓기·붙여넣기, 최대 6, 그림은 `shrinkImageFile`) → `saveFeedback`(첨부 `wms-files` `feedback/<id>/…`, 화면 `window.__activeTab`·TAB_META 이름, 앱 버전·기기). 등록번호 `의견-YYYY-NNNN`·작성자·초기 상태는 DB 트리거(`wms_feedback_before_insert`, 클라이언트 값 무시), 매니저 미만은 처리 칸 변경 불가(`wms_feedback_before_update`). RLS: 조회·등록 VIEWER·경영자, 수정 MANAGER 또는 본인(NEW), 삭제 ADMIN 또는 본인(NEW), 스토리지 `feedback/` 폴더는 VIEWER도 올림. 처리 `handleFeedback`(상태 NEW→ACCEPTED→WORK→DONE→DEPLOYED/HOLD/REJECTED, 우선순위, 답변, 배포 버전 기본 `currentVersion()`, `history` 추가) → 상태·답변이 바뀌면 `sendMessage(dmRoom(나, 요청자))`로 알림(`feedbackNoticeText`). `digest.js`가 매니저 이상에게 처리 중 오류 신고·검토 전 의견 건수를 확인할 일에 넣음.
 - **사용 정착 현황**(`usageBoard`, 지원 묶음, ADMIN·MANAGER(경영자 포함), `components/UsageBoard.js`, 계산 `services/usageStats.js` `computeUsage`): 기간(최근 7·14일·이번 달·지난달)·거점(HQ/GIMPO, `siteKeyOf` 위치 글자). 업무일지 작성률 = 기간 안 평일(`workdaysBetween`: 주말·`isPublicHoliday` 제외, 오늘 전까지) 중 `logHasContent` 일지, 미작성·수불부 미반영(`isSyncedToLedger === false`) 날. 입출고 = `state.history`(`dayOfStamp`, 작업자 '시스템' 제외해 따로 셈), 수불부 = 3종 수불부 수불일자(INIT- 이관 전표 제외), 전표 = `listSlipsRange`(작성자 `worker`, 출고일 지난 미출고 RQ). 사람 = 작업자 이름 + 업무일지 `manager`, `listChatUsers` 계정 이름으로 기록 없는 사람도 표시. 재고 차이 = `computeStockDiff`. 빠진 날 클릭 = `window.__worklogInitialDate`(ProductionLog는 이렇게 지정된 날짜(`requestedDate`)면 일지가 없어도 최신 일지로 넘기지 않고 빈 일지를 연다).
 - **거래처별 실적**(`partnerBoard`, 월간 실적 현황판 묶음 analytics 다음, `components/PartnerBoard.js`, 계산 `services/partnerStats.js`): 읽기 전용. `loadPartnerData({from,to})` = loadOrderData(기간 시작 1년 전부터, 원액 주문 제외) + 최신 작성일자 스케줄 + listQc INSPECT·NCR(area PRODUCT). `computePartnerStats`: 주문(요청일 기간 안)·완료/납기 준수(completedAt 기간 안, onTime)·진행 중/납기 지남(지금)·출하요청서(전표 일자)·출하완료(shippedAt)·스케줄 미완료 줄·출하검사 불량률(`partner`)·부적합(`place || partner`). 거래처 키 `partnerKey`(공백·대소문자 무시, '묶어 보기'면 괄호·대괄호 안 제거), '외부 거래처' 제외. 기간·묶기·정렬은 `daelim_partner_board`, 주문 줄 클릭 = `__reqOpen`. 단가는 쓰지 않음.
@@ -273,6 +282,8 @@ npm run preview
   - 라벨 발행 화면의 'QR & 폼텍 다목적 발행기'(`LabelPrinter.js`의 `QR_LABEL_PAPERS`)도 같은 용지 규격과 렌더러를 씁니다. `qrItemLabelElements`가 라벨 크기에 맞춰 QR 크기·글자 칸·글자 크기를 정합니다(가로형: 글자 왼쪽 + QR 오른쪽, 세로형: 글자 위 + QR 아래, 작은 라벨은 분류·날짜 줄 생략).
   - 인쇄는 새 창(`openLabelPrintWindow`/`writeLabelPrintWindow`)에 `@page`를 용지 크기로 두고 mm 단위 절대 위치로 그립니다. 같은 내용 반복 / 품목 여러 개(매수·줄별 필드), 시작 칸(쓰다 남은 용지), 위치 보정(`daelim_label_print_offset`, 기기별), 테두리 시험 인쇄를 지원합니다.
 - 전표 스캔 등록(탭 `docScan`, `components/DocScanner.js`, `services/docOcr.js`): 인쇄된 거래명세서·납품서를 찍거나 올리면 Tesseract.js(무료, 브라우저 안에서 처리, 엔진·한글 자료는 처음 쓸 때 jsDelivr CDN에서 받음)로 글자를 읽고, `parseSlipText`가 일자(2026.09.18 · 26/09/18 · 표의 09/18+올해)·거래처('상호' > '(주)이름' > '이름(주)', 숫자뿐인 이름 제외)·전표번호와 품목 줄(`matchItem`: 글자는 NFKC로 전각→반각 후 비교. 품목코드(숫자뿐인 코드는 원래 표기 그대로일 때만) > 품목 약칭(`state.itemAliases`, 키 규칙은 db.js `normItemName`과 같게) > 품목명 포함 > 규격 치수(`DIM_RE`, 같은 치수 후보들 중 후보끼리 겹치지 않는 품명 글자가 줄에 가장 많은 것) > 숫자 뺀 품명 글자 유사도(짧은 이름은 붙어 있을 때만), 수량은 '수량+단위'(칸 구분선 ']' 허용, '4개입' 제외) > '수량×단가=금액' > 첫 숫자)을 뽑습니다. 금액(한글 금액 포함)·은행·계좌·사업자번호·주소·성명·인수 줄과 깨진 줄(한글 2자 미만이면서 서로 다른 글자 3개 이상인 영문 낱말도 없음)은 버립니다. 읽기 전 `preprocessImage`가 흑백 보정 뒤 표 선(가로·세로로 길게 이어진 어두운 줄)을 지웁니다(`removeLines`, 칸 테두리 때문에 표 안 글자를 못 읽던 문제). 글자 인식기는 쪽 나누기를 자동 배치 분석(`tessedit_pageseg_mode` 3)으로 둡니다(tesseract.js 기본값 6은 표의 영문 품명을 한글로 읽음). 화면은 `recognizeBest`로 긴 변 1800px → 3600px(→ 둘 다 품목 0개면 3000px) 순서로 읽어 품목이 가장 많이 맞은 글자를 씁니다(작은 글자는 확대 크기에 따라 읽힘이 달라짐). 규격 치수는 품명보다 먼저 보고(품명을 잘못 읽으면 짧은 단품명이 먼저 잡힘), '*'가 빠진 9자리('405285295')도 품목마스터에 그 규격이 있으면 치수로 봅니다. 수량 후보에서 줄 앞 일자·거래처 품목코드·치수·입수·용량 숫자는 뺍니다. 시험은 실제 브라우저(미리보기)에서 해야 합니다: Node와 브라우저의 확대 결과가 달라 같은 사진도 다르게 읽힙니다. 사람이 확인해 체크한 줄만 `processStockAction`(`at` = 전표 일자, 사유에 거래처·전표일·번호)으로 등록하며 전표 종류(`SLIP_TYPES`)는 입고·구매·카드사용 → IN, 출고·폐기 → OUT, 사용 → USE, 이동 → MOVE(도착 창고), 기타 → 늘림/줄임 선택이고 구매·카드사용·폐기·기타는 `ledgerType`으로 수불부 구분 글자에 종류 이름을 씁니다(`processStockAction`의 `ledgerType` → movement → `movementToLedgerEntries`), 자동 등록은 하지 않습니다. 기본 단위가 L·KG인 품목은 줄마다 입력 단위(L/KG)를 고르고 비중(`latestRawSg`, 없으면 1, 수정 가능)으로 품목 단위로 환산해 등록합니다(사유에 원래 수량·단위·비중). 수량 바로 뒤에 kg가 있으면(`unitHint`) KG로 먼저 맞춥니다. 같은 화면의 문서 스캔(`components/DocScanPanel.js`, `mountDocScanPanel`)은 쪽을 넣을 때 문서 영역을 자동으로 찾고(`autoQuad`: 400px로 줄여 Otsu로 밝은 종이 → 가장 큰 연결 덩어리 → x+y·x−y 극값 네 모서리, 15~97%일 때만) `✂` 편집 창에서 네 모서리를 끌어 고치며, `warpQuad`(원근 변환, 원본 긴 변 2600px로 줄인 뒤 양선형 보간)로 반듯하게 편 다음, 그림자·접힌 자국을 지우고(절반 크기에서 닫힘 연산 폭 13칸으로 글자 획만 걷어 낸 종이 밝기로 나눔) 여러 쪽을 보정합니다. `autoQuad`는 밝기가 아니라 **사진 가장자리(배경) 색 중앙값과의 색 거리**(배경보다 밝은 곳만)로 종이를 가릅니다(나무 책상처럼 밝은 배경을 종이로 잡던 문제). 밝은 칸 지도를 닫힘 연산(약 3%)으로 다듬어 접힌 선이 종이를 가르지 않게 합니다. 전표 스캔 등록도 사진을 올리면 `autoQuad`+`warpQuad`로 종이 부분만 잘라 읽습니다(`종이만 자르기` 체크, 문서 스캔 쪽에는 원본을 넘김). `preprocessImage`의 `fit`은 target보다 큰 사진을 줄이기도 합니다. 방향은 글자 인식 없이 그림 모양으로 즉시 맞춥니다(`isSideways`: 표 선 지운 잉크의 행·열 합 변동계수 비교, 누웠으면 `uprightScore`로 줄 시작 정렬·왼쪽 무게중심을 보고 90°/270°; 180°는 사용자가 ⟳). 글자 인식 신뢰도로 방향을 고르는 방식은 한글에서 방향별 차이가 거의 없어 쓰지 않습니다. 이후(흑백 문서·회색·컬러, 종이 밝기 = 밝기 60% 지점, 글자 = 하위 1%)해 PDF(`pdf-lib` 동적 import, 폭 595pt) 또는 JPG로 내려받거나 Web Share API(`navigator.share({ files })`, 미지원이면 저장 안내)로 공유합니다. 서버로 올리지 않습니다. 공유는 누른 직후(사용자 동작 안)에 불러야 열리므로, 쪽·보정·형식·이름이 바뀔 때마다 파일을 미리 만들어 두고(`prepare`) 누르면 await 없이 바로 `navigator.share`를 부릅니다. 준비 전이면 준비 후 한 번 더 누르게 안내합니다. 공유용 파일 이름은 영문·숫자(`scan_날짜_시각`)만 씁니다(일부 안드로이드 공유 창이 한글 파일 이름을 못 읽고 계속 불러오기만 함, 이 기기 저장은 한글 이름). PDF 공유가 막힌 브라우저는 같은 쪽 JPG로 대신 공유합니다. 손글씨·PDF는 지원하지 않습니다.
+  - **전표 읽기 개선**(2026-10-03, `docOcr.js` `recognizeBest`·`recognizeRows`): 위 문단의 '자동 배치 분석(3)으로 한 번 읽기'는 표로 된 전표에서 **세로 칸 단위로 읽어 품명과 수량이 다른 줄로 흩어졌다**(예시 거래명세서 측정: 품목+수량이 같이 맞은 줄 0/8). 지금은 ① 쪽 나누기 방식을 바꿔 가며 읽고(`SLIP_PASSES`: 한 단(4) → 한 덩어리(6) → 자동(3), 모두 1800px — 품목을 못 찾았거나 수량이 불확실한 줄이 절반을 넘으면 4@3000px 한 번 더; 읽을 때마다 `setPsm` — 영수증·성적서는 예전대로 3) ② 낱말 상자(`data.words`)로 줄을 다시 짜고(`rowsFromWords`: 왼쪽 낱말부터 그 줄의 마지막 낱말과 높이가 겹치면 잇기 → 긴 줄들의 기울기 중앙값으로 높이 바로잡기 — 1.5°만 기울어도 오른쪽 끝의 수량이 다른 줄로 떨어졌다, 한글 글자 사이가 글자 높이의 18%보다 좁으면 붙임) ③ 여러 번 읽은 줄을 높이(쪽 가운데 세로선 기준)로 맞춰 줄마다 더 잘 읽힌 쪽을 남긴다(`mergeRows`·`rowQuality`: 품목 + 수량 > 일자·거래처). ④ 머리줄의 `수량`(·QTY) 글자 아래 칸의 숫자를 찾아 줄 끝에 `[수량칸 240]`으로 적는다(`quantityColumn`·`quantityInColumn`) — `guessQty`가 가장 먼저 본다(읽은 글자 칸에서 고칠 수 있음). `guessQty(line, item)` 순서: 수량 칸 표시 > 수량+개수 단위 > 줄 끝의 `수량 L·KG`(숫자와 단위가 떨어져 있을 때 — 규격 `200L`은 붙어 있음) > 수량×단가=금액 > **품명·규격에 없는** 첫 숫자. 품목 색인(`getMasterIndex`)은 품목 수가 바뀌어도 다시 만든다(새 품목 빠른 등록 뒤에 그 품목이 안 잡혔음).
+  - 측정(`scan_bench.js` `ocrBench` — 가짜 품목 8줄 거래명세서, 품목+수량이 같이 맞은 줄 / 글자 정확도): 스캔본 0/8 · 35% → 8/8 · 94%, 스마트폰 사진(1.5° 기울임·흐림·그림자) 0/8 · 32% → 7/8 · 90%, 어두운 곳 0/8 · 64% → 5/8 · 84%, 작게 찍힌 흐린 사진(900px) 1/8 → 3/8(글자가 작으면 여전히 약하다 — 전표가 화면에 꽉 차게 찍도록 안내). 문서 영역 자동 찾기(`quadBench`: 배경 4종 × 자세 5종)는 20/20 맞음(모서리 오차 1% 미만). 합성 그림 기준이며 실제 전표로 다시 확인할 것 — 측정 스크립트는 `state.master`에 가짜 품목을 잠깐 넣었다 뺀다(같은 이름의 품목이 이미 있으면 결과가 틀어진다).
   - 문서 스캔(같은 화면, `components/DocScanPanel.js`): `여러 장 연속 찍기`는 `getUserMedia`(후면, 4K 희망) 카메라를 앱 안 전체 화면에 띄워 셔터마다 영상 프레임을 캔버스로 쌓고 `완료` 때 `addImage(…, { quiet: true })`로 한꺼번에 넣은 뒤 방향 맞춤을 돌립니다(찍는 동안 보정하지 않음, 카메라가 없거나 막히면 파일 입력). 공유는 PDF 한 파일(`#sc-share`)과 쪽마다 JPG 여러 장(`#sc-share-jpg`) 둘 다 미리 만들어 둡니다. 여러 쪽을 자동 자르기(`autoQuad`)·원근 펴기(`warpQuad`)·그림자 제거·방향 맞춤 후 PDF(pdf-lib)/JPG로 저장·공유. **문서로 등록**은 글자 읽기 없이 스캔 PDF(표지 없음)를 `fileStore.saveDocument`로 접수·발행 문서(`wms_documents`)에 올리고(쓰기 WRITE_STOCK), 등록 뒤 저장·공유 파일 첫 쪽에 등록 정보 표지를 넣습니다. 글자 읽기한 전표는 `전표 공유`/`PDF 저장`으로 요약 1쪽 + 보정한 전표 사진을 내보냅니다. 요약 표지·파일 만들기·즉시 공유는 `services/scanShare.js`(`summaryCanvas`: 글자를 그림으로 그려 PDF 한글 글꼴 불필요, `canvasesToFiles`, `createSharer`: 내용이 바뀔 때 파일을 미리 만들어 두고 누르는 즉시 `navigator.share`, PDF 공유가 막히면 JPG, 공유 파일 이름은 영문·숫자).
 - 구글 챗 → 일정(`services/chatSchedule.js`, `components/ChatInboxPanel.js`, 수불·입출고 캘린더 위 '구글 챗 일정' 받은함): 회사 워크스페이스(daelimoil.co.kr)의 구글 챗 앱이 스페이스에서 @멘션된 메시지를 Edge Function `google-chat-webhook`(`supabase/functions/google-chat-webhook`, verify_jwt=false, 구글 토큰을 직접 검사: 인증 대상 = 함수 URL 또는 비밀 `GOOGLE_CHAT_PROJECT_NUMBER`, 보낸 사람 @daelimoil.co.kr만)으로 보내면 `wms_chat_inbox`(`supabase/auth/19_chat_inbox.sql`, INSERT는 서비스 키만)에 원문을 쌓습니다. 앱에서 `parseScheduleMessage`가 줄마다 일자(M/D·M월 D일·오늘/내일)·구분(출하→OUT_PLAN, 생산/블렌딩→PROD_PLAN, 입고→IN_PLAN)·품목(`docOcr.matchItem`)·수량(개수 단위 우선)·거래처를 뽑고, 사람이 확인한 줄만 `saveSchedule`로 등록한 뒤 받은함을 DONE/IGNORED로 바꿉니다. 일정 구분에 '생산예정'(PROD_PLAN)을 추가했습니다.
 - 캘린더(탭 `calendar`, `components/CalendarView.js`; 예전 `LedgerCalendar.js`는 더 이상 쓰지 않음): 일정은 `calendar`(HQ 본사·GIMPO 김포·PERSONAL 개인, DB `supabase/auth/20_calendars.sql`)로 나뉘고 통합 = 본사+김포+내 개인입니다. 개인 일정은 `owner`(클라우드 auth.uid, 로컬 username) 주인만 RLS로 봅니다. 보기는 일간·주간·월간, 화면은 같이보기(여러 캘린더를 색으로 겹쳐 한 달력) / 따로보기 2·3개(달력마다 캘린더 선택), 설정은 `daelim_cal_settings`. 폭 640px 미만은 날짜별 카드. 발행 전표(`listSlips`, 출발·도착 거점으로 본사/김포 판정)와 입출고 이력(날짜·거점별 묶음)도 표시하고 눌러서 바로 봅니다. 일정에는 시간(`startTime/endTime`), WMS 전표 연결(`slipNos`), 첨부 파일(`attachments`, `services/calendarFiles.js`: 비공개 Storage 버킷 `wms-calendar` 서명 URL, 로컬은 2MB 이하 dataURL)을 둡니다. 클라우드 모드는 일정이 비어 있어도 클라우드 기준(예시 일정 안 보임).
@@ -296,6 +307,8 @@ npm run preview
   - 구글시트·구글문서 `GoogleEmbed.js`: 링크로 `…/edit?rm=minimal`(또는 `/preview`)을 iframe에 띄움(구글 로그인·제3자 쿠키 필요, 안 되면 새 창). 공개 시트/문서는 `…/export?format=xlsx|docx`(CORS 허용)로 받아 엑셀/문서 편집기로 가져옵니다. 최근 링크 `daelim_google_recent`.
   - 문서 `DocEditor.js`: .docx는 `mammoth`로 HTML 변환, contenteditable + execCommand 서식, 저장은 Word(.doc = 워드용 HTML)·HTML·TXT, 인쇄. .doc(97-2003)·.hwp는 못 읽습니다.
   - PDF `PdfEditor.js`: `pdfjs-dist`(legacy 빌드, 워커 `?url`, CMap·표준 글꼴은 jsDelivr) 보기, 주석은 PDF 좌표(pt)로 저장(`viewport.convertToPdfPoint`, 화면은 `viewport.transform`으로 그림) → 페이지를 돌려도 따라감. 글자는 캔버스로 PNG를 만들어 이미지로 넣어 한글 글꼴 문제가 없습니다. 저장은 `pdf-lib`로 원본 페이지를 `copyPages` 후 원본 내용을 q…Q로 감싸고(`wrapContentStreams`) 주석을 그립니다. pdf.js 그리기는 requestAnimationFrame을 써서 백그라운드 탭에서는 끝나지 않으므로, 페이지 크기가 정해지면 바로 입력을 받게 했습니다.
+- **카메라 QR·바코드 스캐너**(2026-10-03, `services/qrCamera.js` `createQrCamera(host, { onText, once, dedupeMs, isAlive, onStop, hint, feedback, showToast })` → `{ start, stop, on }`): 현장 스캔·재고실사·통합 검색·LOT 추적·제품생산/입고 검색 등록·작업지시서 QR 스캔이 모두 이것을 쓴다(예전에는 화면마다 html5-qrcode — 패키지 제거함). 카메라를 1920×1080으로 열고(`focusMode: continuous`) 가운데 정사각형(짧은 변의 85%)을 **원본 해상도 그대로** 해독한다: 기기의 `BarcodeDetector`(안드로이드 Chrome 등)가 있으면 그것으로, 없거나 1.2초 넘게 못 읽으면 ZXing C++(`zxing-wasm/reader`, wasm은 `?url`로 번들해 `assets/`에서 받음 — 처음 쓸 때만, sw.js가 캐시)와 번갈아. 도구: 손전등·확대(1×→2×→3×, 카메라가 될 때만)·카메라 바꾸기(`daelim_scan_camera`에 기억)·사진에서 읽기(`decodeImageFile` — 카메라 권한이 없거나 getUserMedia가 없는 브라우저). 같은 글자는 `dedupeMs` 안에 다시 넘기지 않고, 읽으면 소리·진동(`scanFeedback` — 부르는 화면이 스스로 소리를 내면 `feedback: false`), 화면을 가리면(visibilitychange) 카메라를 놓고, host가 문서에서 빠지면 1초 안에 스스로 꺼진다. **새 화면에 카메라 스캔을 붙일 때는 이것만 쓴다.**
+  - 측정(`scripts/scan_bench.js` `qrBench` — 개발 서버 화면의 콘솔에서 `await import('/scripts/scan_bench.js')`, 가상 카메라 화면에 앱의 QR을 크기·기울임·원근·흐림·어두움으로 그려 해독): 예전 방식(640×480 영상의 250px 상자를 250×250으로 줄여 zxing-js)은 QR이 **화면 폭의 38% 이상**이어야 읽혔고(품목·위치 QR 26%에서 0~3/4, 작업지시서 QR은 38%에서도 0~1/4), 새 방식은 1920×1080에서 **8%**(작업지시서 QR 8~12%)면 읽힌다(초점이 흐리면 18~26%). 앱 QR의 크기: 품목·전표·LOT·작업 QR = 버전 5(37칸), 위치·탱크 QR = 버전 6(41칸), 원료 8줄 작업지시서 QR = 버전 14(73칸). 합성 그림이라 실제 기기·조명·인쇄 품질에서는 더 나쁠 수 있다 — **실제 스마트폰으로는 확인하지 못했다.**
 - 현장 QR(`services/fieldQr.js`): 내용은 `앱주소?q=종류:값#scan` 링크(스마트폰 기본 카메라로 찍어도 현장 스캔 화면이 열림, main.js가 `q`를 스캔 코드로 넘김)이고 종류는 `LOC:위치`·`SLIP:전표번호`·`RAW:품목코드(없으면 원료명)@지역`·`WKR:작업자 id`·`LOT:번호`입니다. 현장 스캔 화면은 `components/FieldScanPanels.js`(`createFieldScan`)로 처리합니다.
   - 위치 QR: 현재 위치 지정(입출고 거점 자동 선택, 품목 작업 중 거점이동이면 도착 위치) + 위치 재고 목록. 사원증 QR: `state.currentGlobalWorker` 전환(로그인 권한은 그대로).
   - 출하 검수: 전표 발행기가 발행한 전표 인쇄물에 `SLIP` QR을 넣습니다. 스캔하면 품목 QR마다 +1로 전표와 대조(초과·전표에 없는 품목 경고)하고, [출고 처리]는 먼저 `markSlipShipped`(DB 함수 `wms_mark_slip_shipped`, `supabase/auth/26_slip_shipping.sql`, `shipped_at/shipped_by/ship_check`)로 출고 완료를 잡은 뒤(두 번 출고 방지) `processStockAction`(외부 거래처 → OUT, 거점 → MOVE)을 합니다. 거점만 지정된 출발지는 `allocateStock`이 그 거점의 창고 재고에서 나눠 꺼냅니다. 전표 단위가 품목 단위와 다르면 재고는 바꾸지 않습니다.
